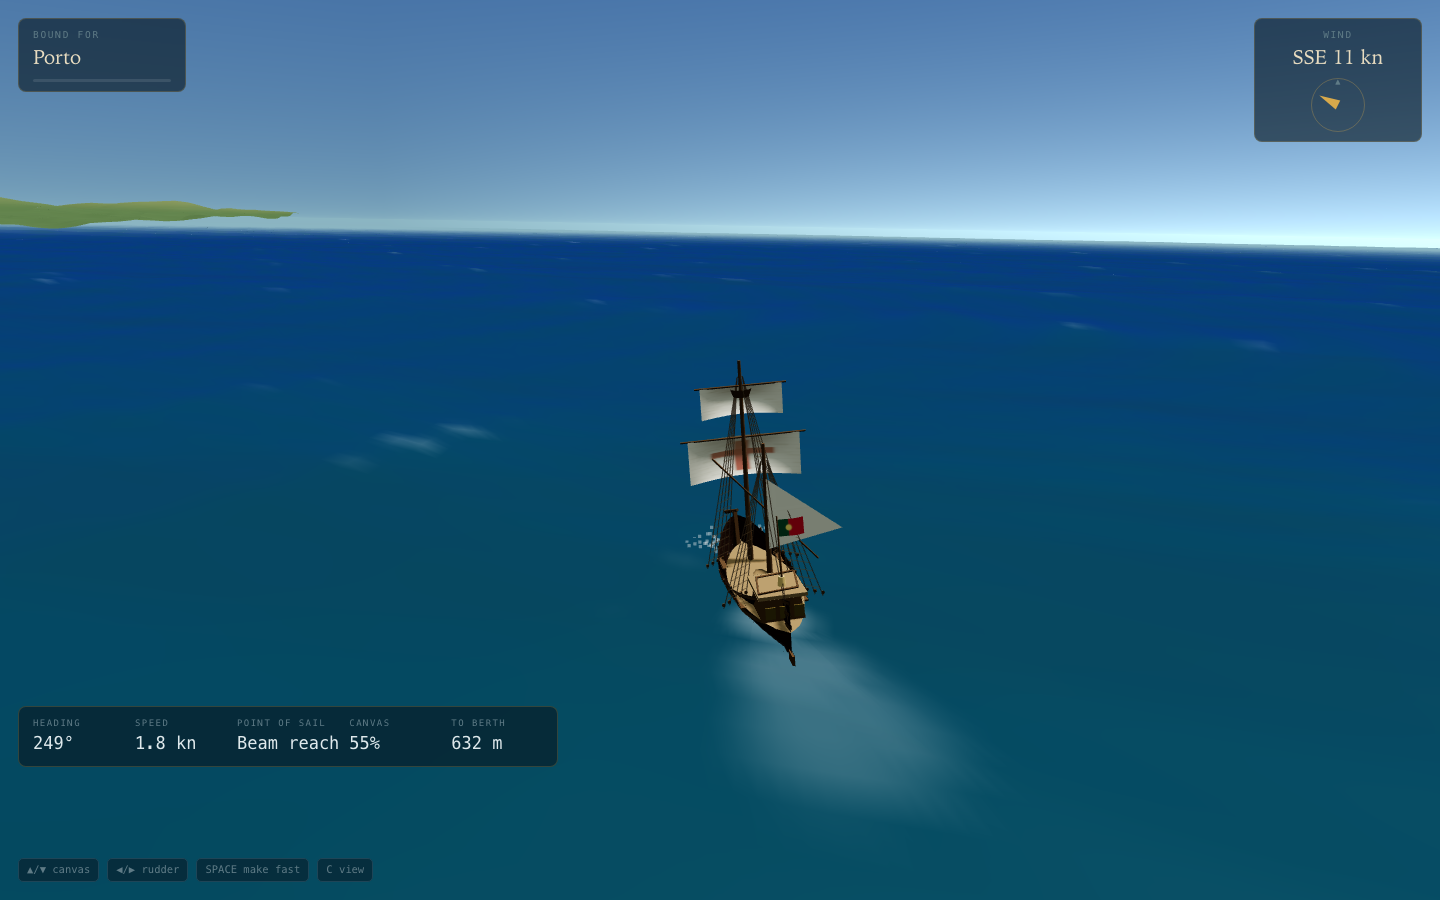
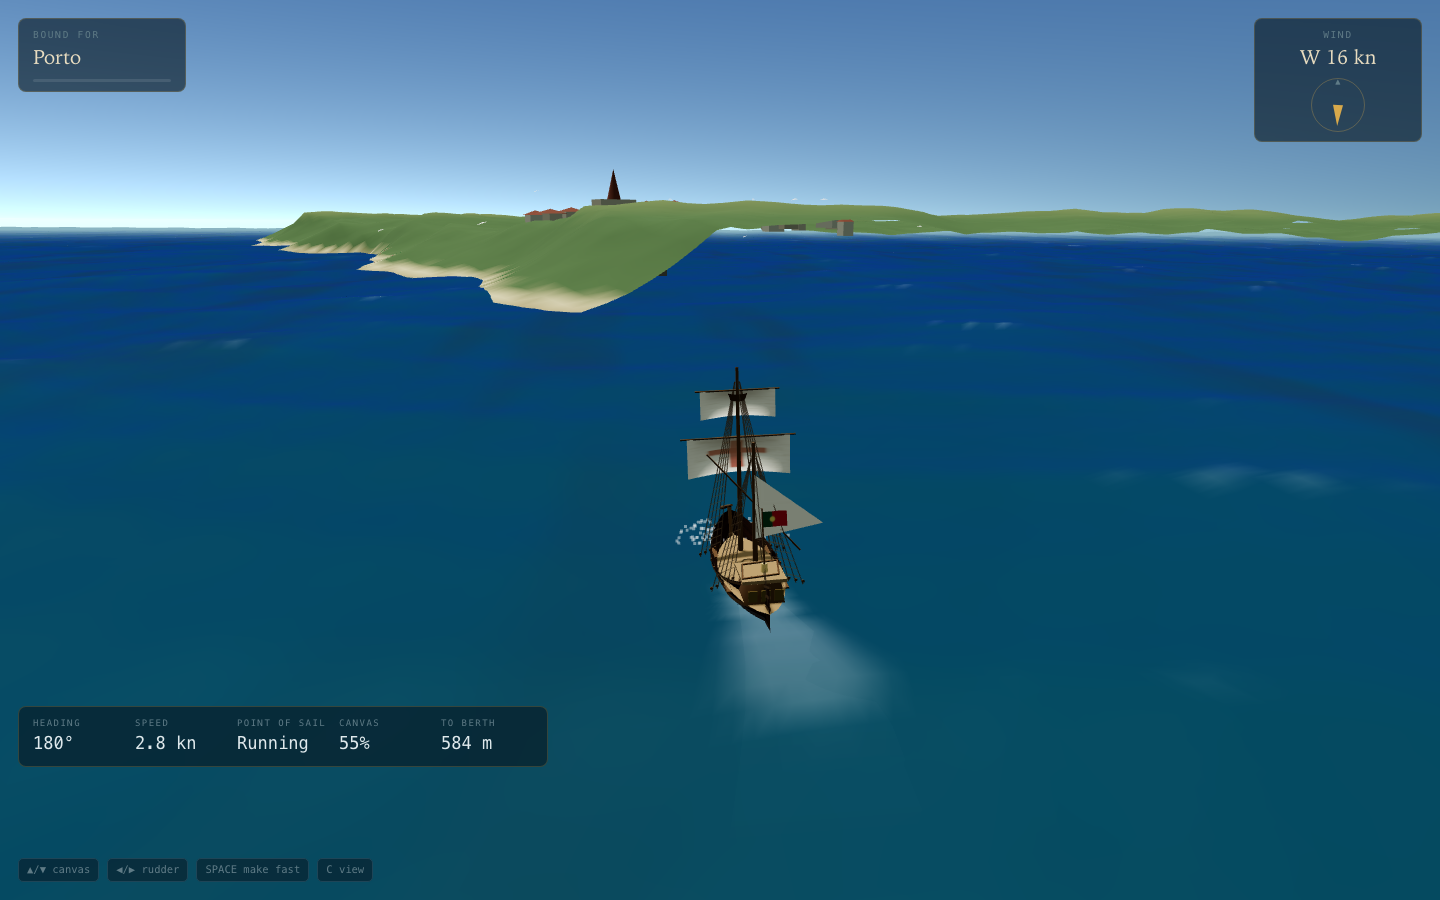
Ships run aground instead of sailing through the coast
There was no land collision at all — only an 11-unit fend-off ring at the
berth — so you could drive straight through a headland. The terrain already
exposes a height function; anything shallower than the draft is now not water,
and she is pushed back down the steepest seaward gradient until she floats.

Plus NEXT.md: an honest account of what still shares one shell across the three
ages (chart, helm physics, vessel, harbour, UI language) and the order to fix
it in.

diff --git a/src/sailing.js b/src/sailing.js
@@ -162,6 +162,7 @@ export class Voyage {
     const fwdB = new THREE.Vector3(Math.sin(bRad), 0, -Math.cos(bRad));   // along the quay
     const sideB = new THREE.Vector3(fwdB.z, 0, -fwdB.x);                  // toward the land
     const seaward = sideB.clone().negate();
+    this._fwdB = fwdB; this._sideB = sideB;
 
     // The wind blows across the approach rather than straight down it, so
     // there is a real sailing problem in getting alongside.
@@ -306,6 +307,33 @@ export class Voyage {
     // Leeway: a badly-drawing sail pushes her sideways instead of forwards.
     const leeway = (1 - power) * this.trim * 0.5 + 0.06;
     this.pos.addScaledVector(windVec, leeway * WORLD_PER_KN * dt * windScale);
+
+    // Ground her rather than letting her sail through the coast. The terrain
+    // has a height function; anything shallower than the draft is not water.
+    if (this.harbour?.groundAt && this._sideB) {
+      const along = this.pos.x * this._fwdB.x + this.pos.z * this._fwdB.z;
+      const off = this.pos.x * this._sideB.x + this.pos.z * this._sideB.z;
+      const g0 = this.harbour.groundAt(along, off);
+      const DRAFT = -3.0;
+      if (g0 > DRAFT) {
+        // Push back down the steepest seaward gradient until she floats.
+        const e = 6;
+        const gA = this.harbour.groundAt(along + e, off) - this.harbour.groundAt(along - e, off);
+        const gO = this.harbour.groundAt(along, off + e) - this.harbour.groundAt(along, off - e);
+        const push = new THREE.Vector3(
+          -(this._fwdB.x * gA + this._sideB.x * gO),
+          0,
+          -(this._fwdB.z * gA + this._sideB.z * gO));
+        if (push.lengthSq() < 1e-6) push.copy(this._sideB).negate();
+        push.normalize();
+        this.pos.addScaledVector(push, Math.min(9, (g0 - DRAFT) * 0.8 + 1.2));
+        if (this.speedKn > 1.2 && this.t - this.bumped > 3) {
+          this.bumped = this.t;
+          this.opts?.onMessage?.("You touch the bottom. Get her off before the tide leaves you.");
+        }
+        this.speedKn *= 0.80;
+      }
+    }
 
     // Fend off the quay rather than sailing through it.
     const dist = Math.hypot(this.pos.x - this.berth.x, this.pos.z - this.berth.z);

diff --git a/dist/tradewinds-artifact.html b/dist/tradewinds-artifact.html
@@ -58380,6 +58380,7 @@ class Voyage {
     const fwdB = new THREE.Vector3(Math.sin(bRad), 0, -Math.cos(bRad));   // along the quay
     const sideB = new THREE.Vector3(fwdB.z, 0, -fwdB.x);                  // toward the land
     const seaward = sideB.clone().negate();
+    this._fwdB = fwdB; this._sideB = sideB;
 
     // The wind blows across the approach rather than straight down it, so
     // there is a real sailing problem in getting alongside.
@@ -58524,6 +58525,33 @@ class Voyage {
     // Leeway: a badly-drawing sail pushes her sideways instead of forwards.
     const leeway = (1 - power) * this.trim * 0.5 + 0.06;
     this.pos.addScaledVector(windVec, leeway * WORLD_PER_KN * dt * windScale);
+
+    // Ground her rather than letting her sail through the coast. The terrain
+    // has a height function; anything shallower than the draft is not water.
+    if (this.harbour?.groundAt && this._sideB) {
+      const along = this.pos.x * this._fwdB.x + this.pos.z * this._fwdB.z;
+      const off = this.pos.x * this._sideB.x + this.pos.z * this._sideB.z;
+      const g0 = this.harbour.groundAt(along, off);
+      const DRAFT = -3.0;
+      if (g0 > DRAFT) {
+        // Push back down the steepest seaward gradient until she floats.
+        const e = 6;
+        const gA = this.harbour.groundAt(along + e, off) - this.harbour.groundAt(along - e, off);
+        const gO = this.harbour.groundAt(along, off + e) - this.harbour.groundAt(along, off - e);
+        const push = new THREE.Vector3(
+          -(this._fwdB.x * gA + this._sideB.x * gO),
+          0,
+          -(this._fwdB.z * gA + this._sideB.z * gO));
+        if (push.lengthSq() < 1e-6) push.copy(this._sideB).negate();
+        push.normalize();
+        this.pos.addScaledVector(push, Math.min(9, (g0 - DRAFT) * 0.8 + 1.2));
+        if (this.speedKn > 1.2 && this.t - this.bumped > 3) {
+          this.bumped = this.t;
+          this.opts?.onMessage?.("You touch the bottom. Get her off before the tide leaves you.");
+        }
+        this.speedKn *= 0.80;
+      }
+    }
 
     // Fend off the quay rather than sailing through it.
     const dist = Math.hypot(this.pos.x - this.berth.x, this.pos.z - this.berth.z);

diff --git a/dist/tradewinds.html b/dist/tradewinds.html
@@ -58389,6 +58389,7 @@ class Voyage {
     const fwdB = new THREE.Vector3(Math.sin(bRad), 0, -Math.cos(bRad));   // along the quay
     const sideB = new THREE.Vector3(fwdB.z, 0, -fwdB.x);                  // toward the land
     const seaward = sideB.clone().negate();
+    this._fwdB = fwdB; this._sideB = sideB;
 
     // The wind blows across the approach rather than straight down it, so
     // there is a real sailing problem in getting alongside.
@@ -58533,6 +58534,33 @@ class Voyage {
     // Leeway: a badly-drawing sail pushes her sideways instead of forwards.
     const leeway = (1 - power) * this.trim * 0.5 + 0.06;
     this.pos.addScaledVector(windVec, leeway * WORLD_PER_KN * dt * windScale);
+
+    // Ground her rather than letting her sail through the coast. The terrain
+    // has a height function; anything shallower than the draft is not water.
+    if (this.harbour?.groundAt && this._sideB) {
+      const along = this.pos.x * this._fwdB.x + this.pos.z * this._fwdB.z;
+      const off = this.pos.x * this._sideB.x + this.pos.z * this._sideB.z;
+      const g0 = this.harbour.groundAt(along, off);
+      const DRAFT = -3.0;
+      if (g0 > DRAFT) {
+        // Push back down the steepest seaward gradient until she floats.
+        const e = 6;
+        const gA = this.harbour.groundAt(along + e, off) - this.harbour.groundAt(along - e, off);
+        const gO = this.harbour.groundAt(along, off + e) - this.harbour.groundAt(along, off - e);
+        const push = new THREE.Vector3(
+          -(this._fwdB.x * gA + this._sideB.x * gO),
+          0,
+          -(this._fwdB.z * gA + this._sideB.z * gO));
+        if (push.lengthSq() < 1e-6) push.copy(this._sideB).negate();
+        push.normalize();
+        this.pos.addScaledVector(push, Math.min(9, (g0 - DRAFT) * 0.8 + 1.2));
+        if (this.speedKn > 1.2 && this.t - this.bumped > 3) {
+          this.bumped = this.t;
+          this.opts?.onMessage?.("You touch the bottom. Get her off before the tide leaves you.");
+        }
+        this.speedKn *= 0.80;
+      }
+    }
 
     // Fend off the quay rather than sailing through it.
     const dist = Math.hypot(this.pos.x - this.berth.x, this.pos.z - this.berth.z);

diff --git a/NEXT.md b/NEXT.md
@@ -1,0 +1,75 @@
+# Tradewinds — what's next
+
+Written 6 Aug 2026 at the end of a long session. Everything below is honest
+about what is actually done and what is a reskin pretending to be a feature.
+
+## The state of it
+
+**Live:** https://mw572.github.io/things/tradewinds/ (also an artifact URL for
+phone use). Verified with the full browser suite run against the live URL.
+
+**Tests:** 240 checks. `node qa/unit.js` (152), `node qa/sim.js` (18 over 96
+headless campaigns), `node qa/browser.cjs` (70, needs a server on :8749 and
+`NODE_PATH` pointed at `the-apiarist/qa/node_modules`).
+
+**Deploy:** `python3 tools/bundle.py` then copy `dist/tradewinds.html` into the
+`things` repo as `tradewinds/index.html`. Pages on the game's own repo has been
+unreliable; `things` works.
+
+## The honest gap
+
+Marcus's words, and he is right: *"steam and box doesn't use different ship and
+dynamics, same maps and counting house etc."*
+
+The three ages currently share one shell. What genuinely differs is the data —
+goods, ports, hulls, refits, currency, wages, interest, hazard, milestones,
+bunkers, passage times. What does **not** differ is everything the player looks
+at and touches:
+
+| Surface | Now | Should be |
+|---|---|---|
+| Chart | 1620 portolan in all three ages | Steam: an Admiralty chart — soundings in fathoms, lighthouse characteristics, cable routes, steamer tracks, coaling stations marked. Box: a schedule/network view — a liner-service loop with berth windows and transit times, not a map you plot courses on |
+| Helm | Sails and point-of-sail in all three | Steam: engine-room telegraph, ahead/astern, boiler pressure, steerage way, no wind term. Box: bridge console, bow thruster, pilot aboard, berthing by metres-per-minute closing speed |
+| 3-D vessel | The caravel in all three | A steamer (single funnel, counter stern, derricks, no square rig) and a boxship (flat deck, bay/row/tier stacks, deckhouse aft, gantry-served berth) |
+| Tab names | "Counting house", "Commissions", "The Exchange" | Steam: "The office", "Fixtures", "The Baltic". Box: "Head office", "Bookings", "The rate board" |
+| Harbour | Stone quay, cathedral, moored sailing craft | Steam: coaling staithes, cranes, rail sidings, smoke. Box: container gantries, stacked boxes, straddle carriers, no town at all |
+| Money | £/$ symbol swap only | Per-era number formatting and orders of magnitude in the UI |
+
+## The order I would do it in
+
+1. **Era-specific 3-D vessels** (`src/ship3d.js`). Biggest visual payoff. The
+   hull loft already takes dimensions, so a steamer is mostly a different
+   superstructure, funnel and stern, and a boxship is a flat-decked hull with
+   instanced container stacks. `Ship3D` should dispatch on `spec.era`.
+2. **Era-specific helm physics** (`src/sailing.js`). `ERA.propulsion` already
+   exists and is unused. Wind drives `sailPower` only for `wind`; steam and
+   diesel want a throttle, a telegraph lag, and no no-go zone. Docking stays the
+   skill in all three, but the failure modes differ.
+3. **Era-specific chart** (`src/chart.js`). Split into three renderers over the
+   same projection and coastline data. The portolan is written; the Admiralty
+   chart and the network diagram are new.
+4. **Era-specific harbours** (`src/harbour.js`). Drive furniture off
+   `ERA` + `port.berth.style` rather than style alone.
+5. **Era-specific UI language** (`index.html`, `src/game.js`). Tab labels,
+   panel headings and flavour text from a per-era strings table.
+6. **Town density** (task #9, never done). Buildings are sparse and small on the
+   headland; needs more of them, varied massing, chimneys, trees, quay clutter.
+
+## Traps found the hard way, do not re-learn these
+
+- **Test the bundle, not just the dev server.** `eras.js` was missing from
+  `MODULES` in `tools/bundle.py`; the dev server loads real ES modules and kept
+  working while the deployed bundle threw on load. The bundler now fails the
+  build on a missing or misordered module, but run `qa/browser.cjs` against the
+  deployed URL before claiming anything is live.
+- **Port 8642 belongs to the-apiary.** Using it silently tests the wrong game.
+  Tradewinds is on 8749.
+- **Look at screenshots.** Assertions passed while the sea rendered mirror-flat,
+  the wales rendered as a black hula hoop, and the ensign flew along beside the
+  ship. None of that is expressible as a cheap assertion; all of it is obvious
+  in one frame.
+- **Scale is the usual bug.** Waves taller than the freeboard, buildings taller
+  than the ship, terrain overlapping the berth, land shelves eating the harbour.
+  When something looks wrong, check the numbers against the 26-unit hull first.
+- **The harbour's orientation must not depend on the wind.** It did, and on some
+  headings the ship spawned inside a hillside.
